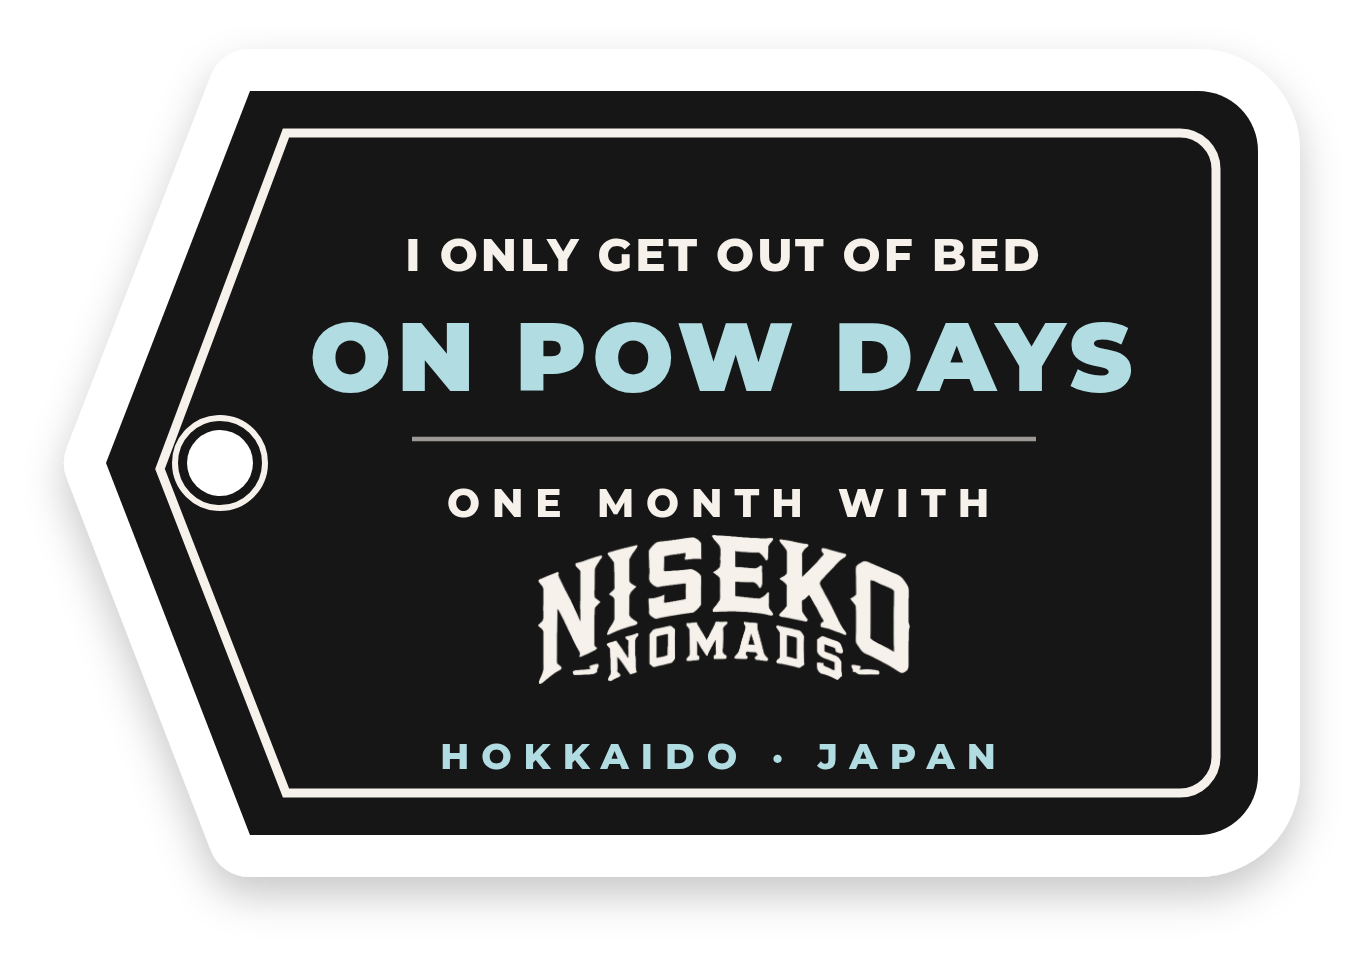
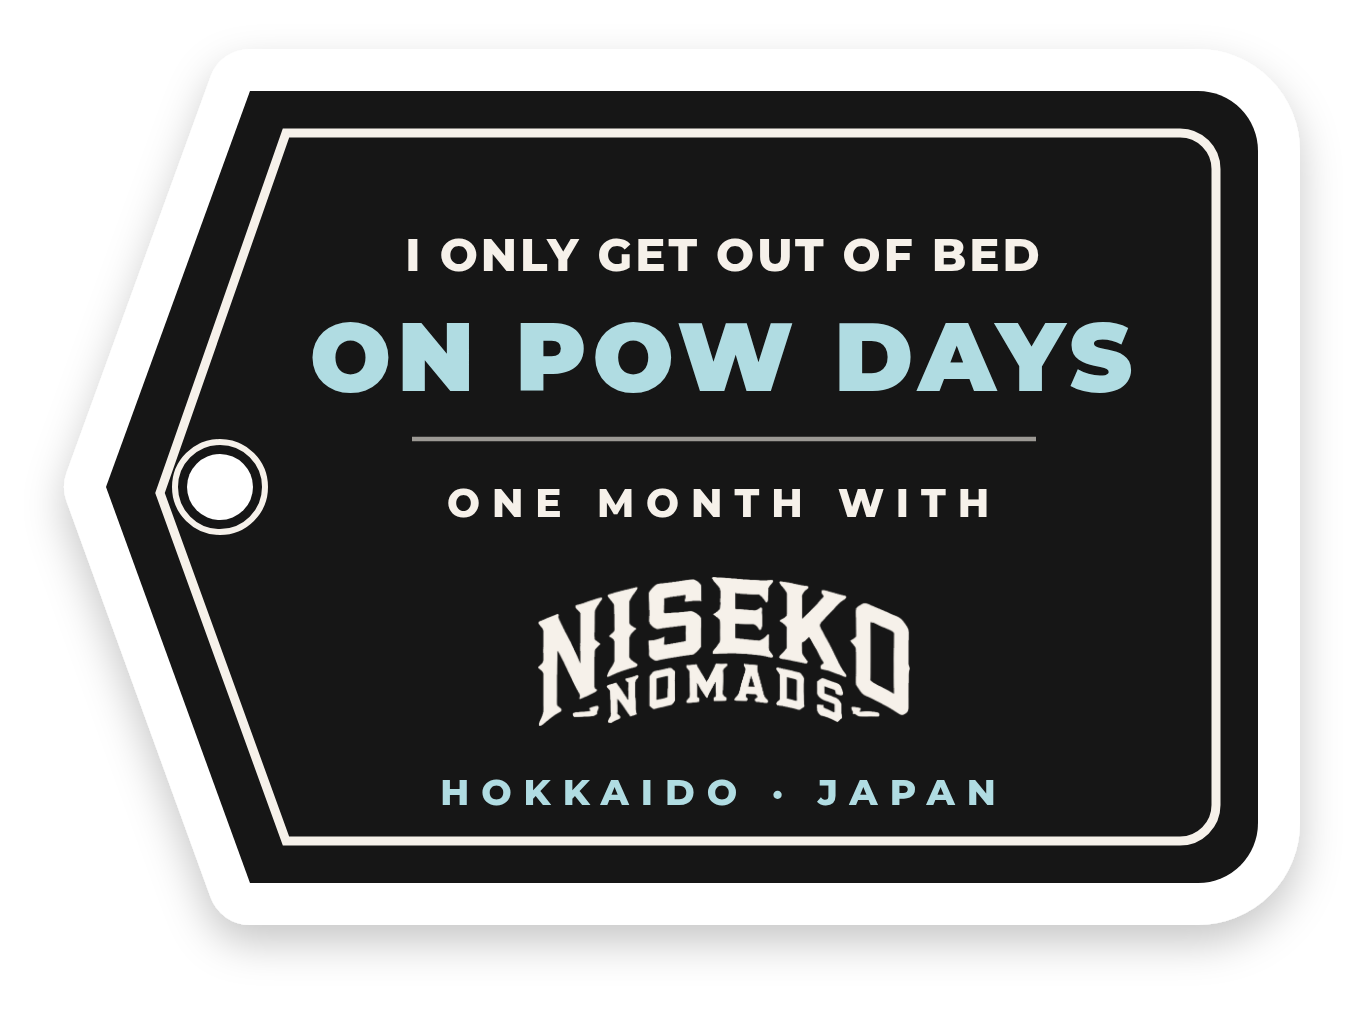
Tag spacing above the wordmark; circle crest with curved katakana

diff --git a/index.html b/index.html
@@ -119,6 +119,7 @@ const STICKERS = [
   ['08-ski-work-repeat','One month of Ski · Work · Repeat','100 × 55 mm strip'],
   ['09-pow-days-tag','I only get out of bed on pow days','95 × 65 mm tag · charcoal'],
   ['10-cone-die-cut-katakana','Cone die-cut · katakana','Same sticker with ニセコノマド under the banner'],
+  ['11-circle-crest-katakana-arc','Circle crest · katakana arc','ニセコノマド curved above the wordmark'],
 ];
 const SHEETS = [
   ['stickers6','All nine together','The full set on one sheet'],
